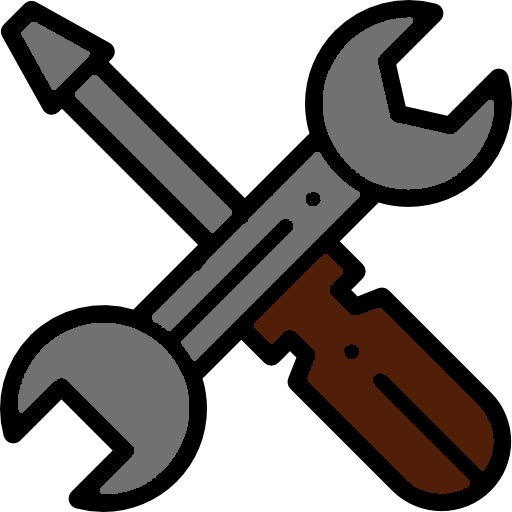
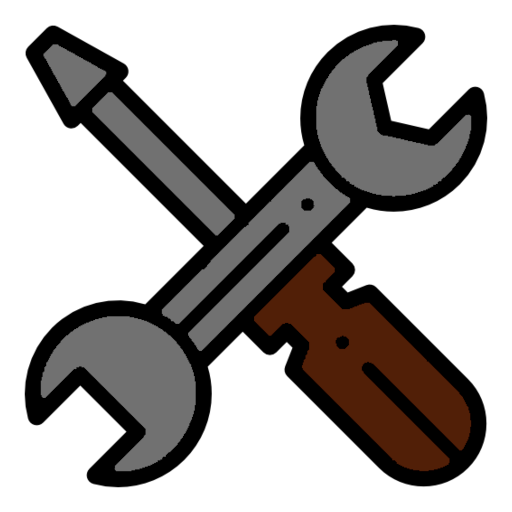
tweaked some category images + added save/restore to draw functions

diff --git a/src/main/java/com/ccdr/labyrinth/game/GameJFXView.java b/src/main/java/com/ccdr/labyrinth/game/GameJFXView.java
@@ -105,6 +105,7 @@ public final class GameJFXView implements GameView, JFXInputSource {
     public void drawBoard(final Board board) {
         Platform.runLater(() -> {
             final GraphicsContext context2d = this.canvas.getGraphicsContext2D();
+            context2d.save();
             context2d.setFill(Color.BLACK);
             context2d.fillRect(labyrinthTopLeftX, labyrinthTopLeftY, labyrinthSize, labyrinthSize);
 
@@ -119,6 +120,7 @@ public final class GameJFXView implements GameView, JFXInputSource {
                     drawTile(context2d, c, tile);
                 }
             }
+            context2d.restore();
         });
     }
 
@@ -207,7 +209,7 @@ public final class GameJFXView implements GameView, JFXInputSource {
             final GraphicsContext context2d = this.canvas.getGraphicsContext2D();
             final double tileMiddleSize = this.tileWidth * TILE_MIDDLE_WIDTH;
             final double border = (tileWidth - tileMiddleSize) / 2;
-
+            context2d.save();
             for (int i = 0; i < players.size(); i++) {
                 if (i == 0) {
                     //Player1
@@ -246,6 +248,7 @@ public final class GameJFXView implements GameView, JFXInputSource {
                     context2d.fillOval(playerX + border, playerY + border, tileMiddleSize, tileMiddleSize);
                 }
             }
+            context2d.restore();
         });
     }
 
@@ -257,6 +260,7 @@ public final class GameJFXView implements GameView, JFXInputSource {
             final double tileMiddleSize = this.tileWidth * TILE_MIDDLE_WIDTH;
             final double border = (tileWidth - tileMiddleSize) / 2;
 
+            context2d.save();
             context2d.setTextBaseline(VPos.TOP);
             context2d.setFill(Color.BLACK);
             context2d.setFont(Font.font(this.headerFontSize));
@@ -355,6 +359,7 @@ public final class GameJFXView implements GameView, JFXInputSource {
             context2d.fillText("Number of moves remaining: " + playersManager.getDiceValue(),
             this.playerStatsRegionX + border, newStartPosY);
             context2d.setFont(Font.getDefault());
+            context2d.restore();
         });
     }
 
@@ -366,6 +371,7 @@ public final class GameJFXView implements GameView, JFXInputSource {
         Image Tool = TypeImag.TOOL.getImage();
         Platform.runLater(()->{
             var context2d = this.canvas.getGraphicsContext2D();
+            context2d.save();
             context2d.setFill(Color.BLACK);
             context2d.setTextBaseline(VPos.TOP);
             context2d.setFont(Font.font(25));
@@ -394,6 +400,7 @@ public final class GameJFXView implements GameView, JFXInputSource {
             context2d.fillText(" -> Type Tool", 36 ,this.canvas.getHeight() -57);
             context2d.drawImage(Jewel,10, this.canvas.getHeight() -34, 20 , 20);
             context2d.fillText(" -> Type Jewel", 36 ,this.canvas.getHeight() -34);
+            context2d.restore();
         });
     }
 
@@ -401,6 +408,7 @@ public final class GameJFXView implements GameView, JFXInputSource {
     public void drawContext(final Context context) {
         Platform.runLater(() -> {
             final GraphicsContext context2d = this.canvas.getGraphicsContext2D();
+            context2d.save();
             context2d.setFill(Color.BLACK);
             if (context instanceof UpdateBoardContext) {
                 UpdateBoardContext update = (UpdateBoardContext) context;
@@ -425,6 +433,7 @@ public final class GameJFXView implements GameView, JFXInputSource {
                 context2d.setFill(Color.BLACK);
                 context2d.fillText("Press Enter/Space to dismiss", this.canvas.getWidth() / 2 , y + popupHeight);
             }
+            context2d.restore();
         });
     }
 

diff --git a/src/main/java/com/ccdr/labyrinth/result/ResultJFXView.java b/src/main/java/com/ccdr/labyrinth/result/ResultJFXView.java
@@ -4,7 +4,9 @@ import com.ccdr.labyrinth.jfx.ExpandCanvas;
 import com.ccdr.labyrinth.jfx.JFXInputSource;
 import com.ccdr.labyrinth.jfx.JFXStage;
 import com.ccdr.labyrinth.game.player.Player;
+import com.ccdr.labyrinth.Category;
 import com.ccdr.labyrinth.Material;
+import com.ccdr.labyrinth.TypeImag;
 
 import java.util.List;
 import java.util.Map;
@@ -14,6 +16,7 @@ import javafx.geometry.VPos;
 import javafx.scene.Group;
 import javafx.scene.Scene;
 import javafx.scene.canvas.GraphicsContext;
+import javafx.scene.image.Image;
 import javafx.scene.paint.Color;
 import javafx.scene.text.Font;
 import javafx.scene.text.TextAlignment;
@@ -56,6 +59,7 @@ public final class ResultJFXView implements ResultView, JFXInputSource {
     public void draw(final List<Player> players, final Map<Player, Integer> playersToIndex) {
         Platform.runLater(() -> {
             final GraphicsContext context = this.canvas.getGraphicsContext2D();
+            context.save();
             context.setFill(BASE_COLOR);
             context.fillRect(0, 0, this.canvas.getWidth(), this.canvas.getHeight());
             recalculateFontSizes();
@@ -77,12 +81,14 @@ public final class ResultJFXView implements ResultView, JFXInputSource {
             context.setFill(TEXT_FILL);
             context.setFont(Font.font(this.hintFontSize));
             context.fillText("Press Enter/Space to close", this.canvas.getWidth() / 2, this.canvas.getHeight() - this.padding);
+            context.restore();
         });
     }
 
     private void drawScores(final GraphicsContext context, final List<Player> players,
         final Map<Player, Integer> playersToIndex
     ) {
+        context.save();
         context.setFill(TEXT_FILL);
         int i = 0;
         for (final Player player : players) {
@@ -116,6 +122,7 @@ public final class ResultJFXView implements ResultView, JFXInputSource {
             context.fillText(entry2.toString(), this.canvas.getWidth() / 2, y + this.playerSize + this.padding);
             i++;
         }
+        context.restore();
     }
 
     private void recalculateFontSizes() {

diff --git a/src/main/java/com/ccdr/labyrinth/Labyrinth.java b/src/main/java/com/ccdr/labyrinth/Labyrinth.java
@@ -77,7 +77,7 @@ public final class Labyrinth {
             engine.bindExecutor(Executor.ID.MENU, menuController);
             engine.bindExecutor(Executor.ID.GAME, gameController);
             engine.bindExecutor(Executor.ID.RESULT, resultController);
-            engine.changeExecutor(Executor.ID.MENU);
+            engine.changeExecutor(Executor.ID.RESULT);
 
             JFXStage.addOnCloseListener(onClose);
             engine.start();
